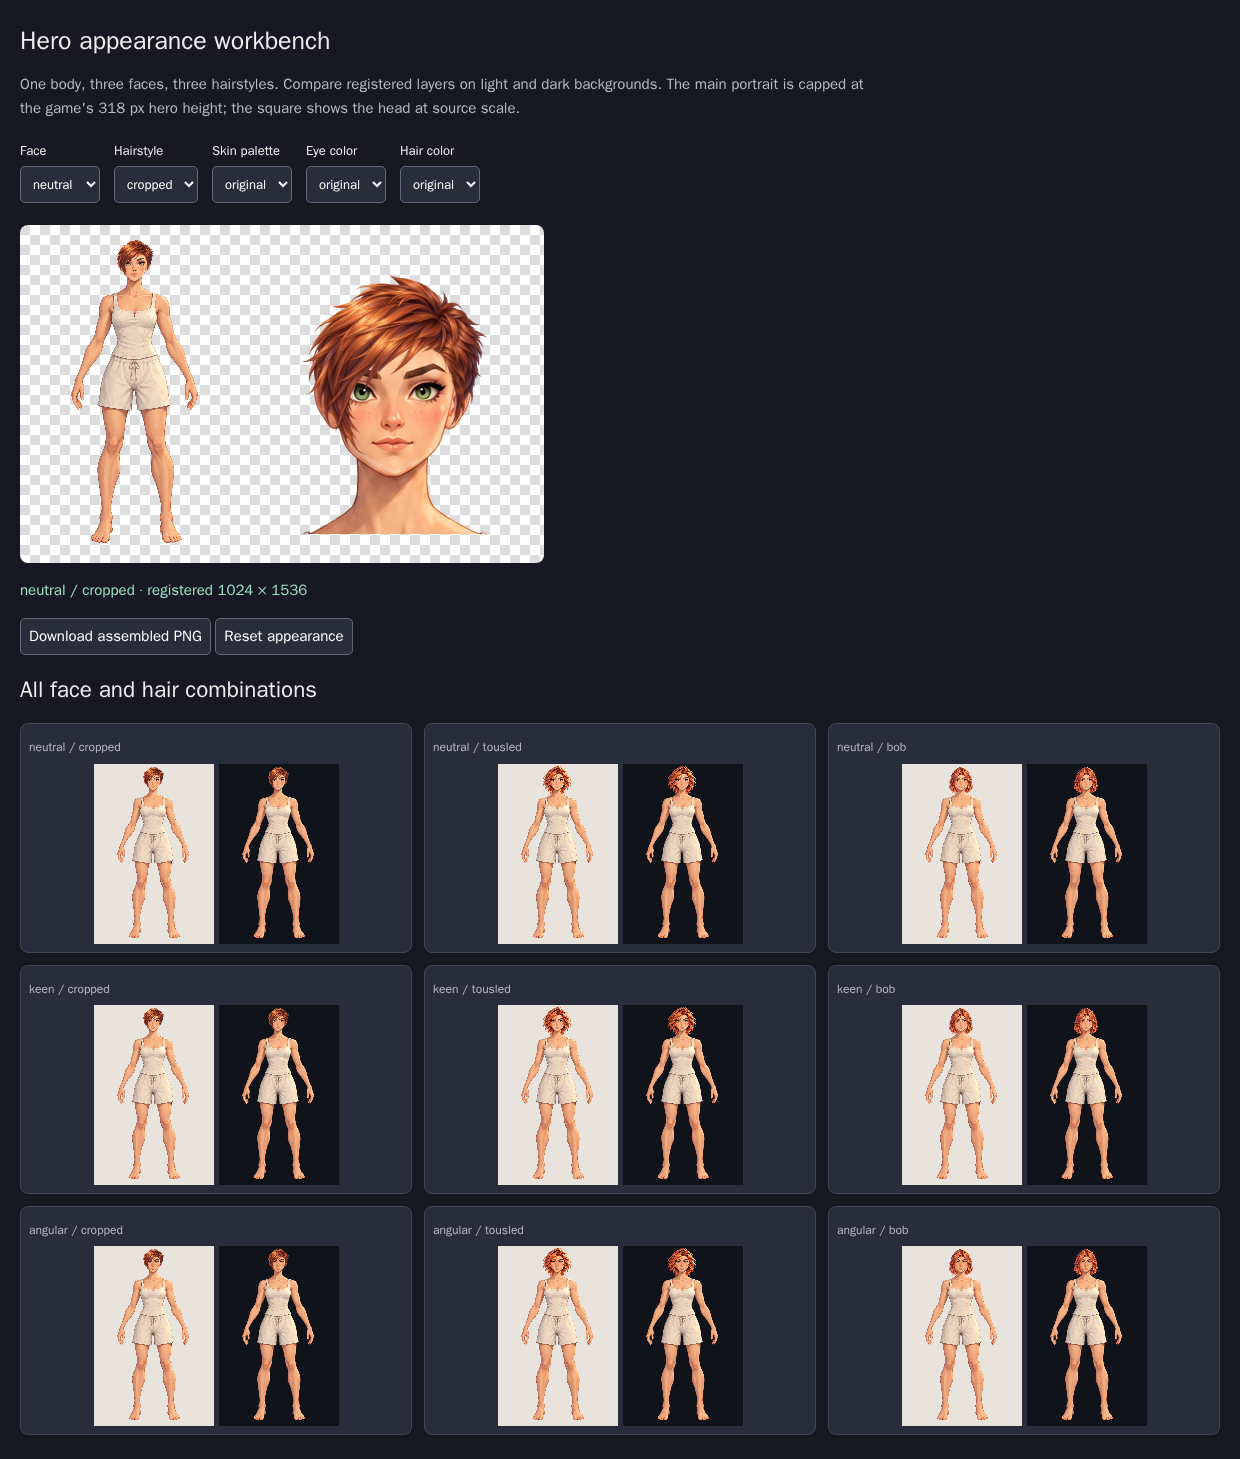
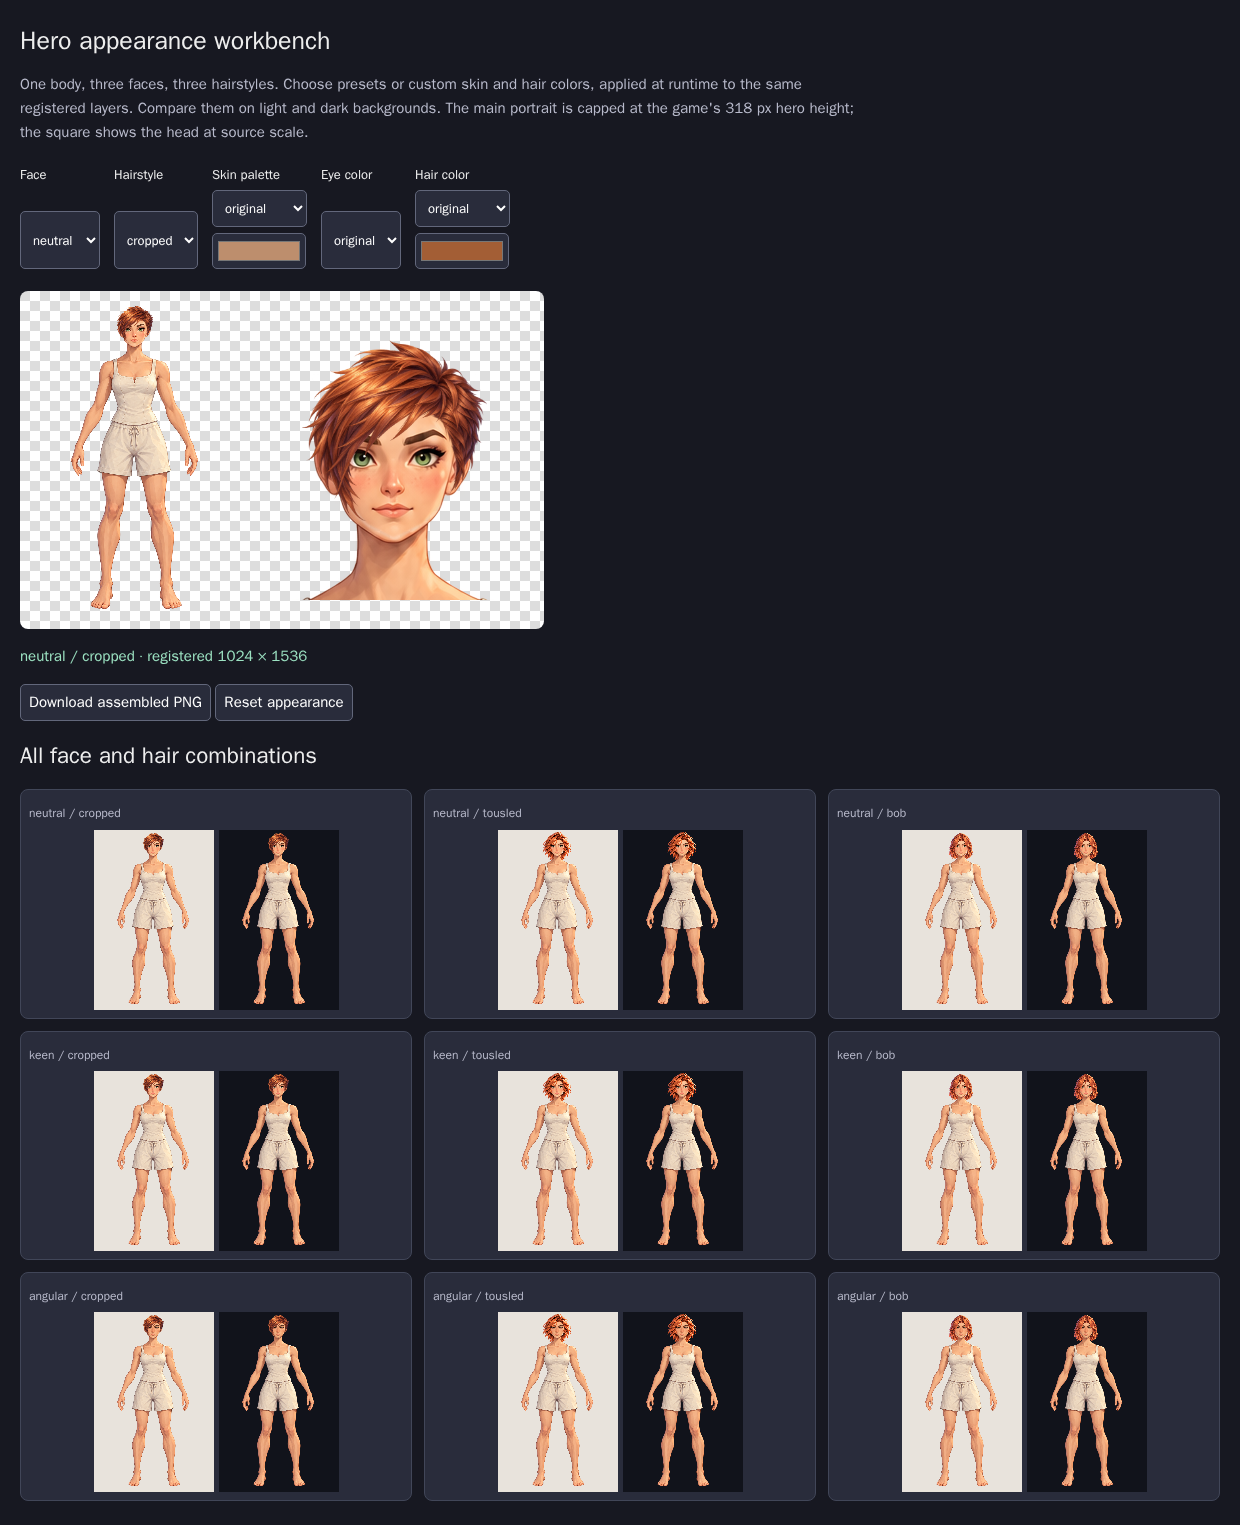
Add custom skin and hair color support to hero kit

Changed region(s): [[0.0, 0.0, 1.0, 0.987], [0.521, 0.9561, 0.5823, 0.987], [0.0919, 0.9561, 0.1532, 0.987]]

diff --git a/tools/hero-kit.html b/tools/hero-kit.html
@@ -6,7 +6,8 @@
 <style>
   :root{color-scheme:dark;font:15px system-ui;background:#171821;color:#eee}
   body{max-width:1280px;margin:24px auto;padding:0 20px}h1{font-size:25px;margin-bottom:8px}p{color:#b8bacb;max-width:850px;line-height:1.6}
-  .controls{display:flex;flex-wrap:wrap;gap:14px;margin:22px 0}label{display:grid;gap:6px;font-size:13px}select,button{padding:8px;border:1px solid #62677b;border-radius:5px;background:#292c3b;color:white;font:inherit}
+  .controls{display:flex;flex-wrap:wrap;gap:14px;margin:22px 0}label{display:grid;gap:6px;font-size:13px}select,button,input{padding:8px;border:1px solid #62677b;border-radius:5px;background:#292c3b;color:white;font:inherit}
+  input[type="color"]{width:94px;height:36px;padding:3px;cursor:pointer}
   #hero{width:212px;height:318px}.stage{background:#eee9e2;border-radius:8px;padding:10px;display:inline-flex;gap:12px;align-items:center}
   .checker{background-color:#ddd;background-image:conic-gradient(#fff 25%,#ddd 0 50%,#fff 0 75%,#ddd 0);background-size:20px 20px}
   #detail{width:280px;height:280px}#swaps{display:grid;grid-template-columns:repeat(3,minmax(0,1fr));gap:12px;margin-top:18px}
@@ -14,7 +15,7 @@
   #status{min-height:25px;color:#9ce2c2}button{cursor:pointer}a{color:#b5c8ff}@media(max-width:700px){#swaps{grid-template-columns:1fr}.stage{display:flex;flex-wrap:wrap}#detail{width:210px;height:210px}}
 </style>
 <h1>Hero appearance workbench</h1>
-<p>One body, three faces, three hairstyles. Compare registered layers on light and dark backgrounds. The main portrait is capped at the game's 318 px hero height; the square shows the head at source scale.</p>
+<p>One body, three faces, three hairstyles. Choose presets or custom skin and hair colors, applied at runtime to the same registered layers. Compare them on light and dark backgrounds. The main portrait is capped at the game's 318 px hero height; the square shows the head at source scale.</p>
 <div class="controls" id="controls"></div>
 <div class="stage checker" id="stage"><canvas id="hero" aria-label="Assembled hero"></canvas><canvas id="detail" aria-label="Head close-up"></canvas></div>
 <p id="status" role="status">Loading appearance kit…</p>
@@ -33,8 +34,18 @@ window.kitReady=(async()=>{
     const label=document.createElement('label');label.textContent={hairColor:'Hair color',skin:'Skin palette',eyes:'Eye color',face:'Face',hair:'Hairstyle'}[key];
     const select=document.createElement('select');select.id=key;select.setAttribute('aria-label',label.textContent);
     const values=key==='face'?manifest.faces:key==='hair'?manifest.hairs:manifest.palettes[key];
-    for(const value of Object.keys(values))select.add(new Option(value,value));select.value=recipe[key];
-    select.onchange=()=>{recipe[key]=select.value;update().catch(fail)};label.append(select);controls.append(label);
+    for(const value of Object.keys(values))select.add(new Option(value,value));
+    if(key==='skin'||key==='hairColor')select.add(new Option('Custom…','custom'));
+    select.value=Object.hasOwn(values,recipe[key])?recipe[key]:'custom';
+    label.append(select);controls.append(label);
+    if(key==='skin'||key==='hairColor'){
+      const picker=document.createElement('input');picker.type='color';picker.id=key+'Custom';picker.setAttribute('aria-label','Custom '+(key==='skin'?'skin color':'hair color'));
+      // Picker swatches approximate the source art when the original palette is selected.
+      picker.value=HeroKit.color(manifest,key,recipe[key])||(key==='skin'?'#bd8e6d':'#a35e35');
+      picker.oninput=()=>{recipe[key]=picker.value;select.value='custom';update().catch(fail)};
+      select.onchange=()=>{recipe[key]=select.value==='custom'?picker.value:select.value;const color=HeroKit.color(manifest,key,recipe[key]);if(color)picker.value=color;update().catch(fail)};
+      label.append(picker);
+    }else select.onchange=()=>{recipe[key]=select.value;update().catch(fail)};
   }
   async function update(){
     const current=++revision,buffer=document.createElement('canvas');await HeroKit.render(buffer,manifest,recipe);if(current!==revision)return;
@@ -42,7 +53,7 @@ window.kitReady=(async()=>{
     detail.width=280;detail.height=280;detail.getContext('2d').drawImage(buffer,365,0,280,280,0,0,280,280);
     localStorage.setItem('hero-kit-preview',JSON.stringify(recipe));document.getElementById('status').textContent=`${recipe.face} / ${recipe.hair} · registered 1024 × 1536`;
   }
-  document.getElementById('reset').onclick=()=>{recipe={...manifest.defaults};for(const key of Object.keys(recipe))document.getElementById(key).value=recipe[key];update().catch(fail)};
+  document.getElementById('reset').onclick=()=>{recipe={...manifest.defaults};for(const key of Object.keys(recipe))document.getElementById(key).value=recipe[key];document.getElementById('skinCustom').value='#bd8e6d';document.getElementById('hairColorCustom').value='#a35e35';update().catch(fail)};
   document.getElementById('download').onclick=()=>{const a=document.createElement('a');a.download=`hero-${recipe.face}-${recipe.hair}.png`;a.href=hero.toDataURL();a.click()};
   await update();
   for(const face of Object.keys(manifest.faces))for(const hair of Object.keys(manifest.hairs)){

diff --git a/tools/hero-kit-check.js b/tools/hero-kit-check.js
@@ -24,6 +24,16 @@ const {artServer}=require('./art-server');
       if(unknown.face!==m.defaults.face||unknown.hair!==m.defaults.hair||unknown.skin!==m.defaults.skin)throw Error('Fallback failed');
       const original=base.toDataURL(),variants=[];
       for(const recipe of [{eyes:'teal'},{skin:'umber'},{hairColor:'silver'}]){const c=make();await HeroKit.render(c,m,recipe);variants.push(c.toDataURL()!==original)}
+      const custom=HeroKit.normalize(m,{skin:'#AbC',hairColor:'#123456',eyes:'#ABCDEF'});
+      if(custom.skin!=='#aabbcc'||custom.hairColor!=='#123456'||custom.eyes!=='#abcdef')throw Error('Custom color normalization failed');
+      for(const value of ['#12','#gggggg','red','__proto__',null,42])if(HeroKit.normalize(m,{skin:value}).skin!==m.defaults.skin)throw Error('Invalid color fallback failed');
+      for(const [key,name]of [['skin','umber'],['hairColor','silver']]){
+        const preset=make(),direct=make();await HeroKit.render(preset,m,{[key]:name});await HeroKit.render(direct,m,{[key]:m.palettes[key][name]});
+        if(preset.toDataURL()!==direct.toDataURL())throw Error('Custom color differs from palette equivalent');
+        const a=base.getContext('2d').getImageData(0,0,1024,1536).data,b=direct.getContext('2d').getImageData(0,0,1024,1536).data;
+        for(let i=3;i<a.length;i+=4)if(a[i]!==b[i])throw Error('Custom tint changed alpha');
+        if(key==='hairColor'&&b.slice(280*1024*4).some((v,i)=>v!==body[i]))throw Error('Hair tint changed body');
+      }
       const files=new Set([m.body,...Object.values(m.clothing),...Object.values(m.masks)]);
       for(const f of Object.values(m.faces))for(const k of ['src','skinMask','eyeMask'])files.add(f[k]);
       for(const h of Object.values(m.hairs))for(const k of ['front','back','mask'])files.add(h[k]);
@@ -33,7 +43,11 @@ const {artServer}=require('./art-server');
     assert.equal(results.distinct,9);assert(results.variants.every(Boolean));
     await page.selectOption('#face','angular');await page.selectOption('#hair','bob');
     await page.waitForFunction(()=>document.getElementById('status').textContent.startsWith('angular / bob'));
+    await page.locator('#skinCustom').fill('#704832');await page.locator('#hairColorCustom').fill('#355577');
+    await page.waitForFunction(()=>{const r=JSON.parse(localStorage.getItem('hero-kit-preview'));return r.skin==='#704832'&&r.hairColor==='#355577'});
     await page.reload();await page.evaluate(()=>window.kitReady);
+    assert.equal(await page.locator('#skinCustom').inputValue(),'#704832');assert.equal(await page.locator('#hairColorCustom').inputValue(),'#355577');
+    assert.equal(await page.locator('#skin').inputValue(),'custom');
     assert.equal(await page.locator('#face').inputValue(),'angular');assert.equal(await page.locator('#hair').inputValue(),'bob');
     await page.click('#reset');await page.waitForFunction(()=>document.getElementById('status').textContent.startsWith('neutral / cropped'));
     const out=path.resolve(__dirname,'../assets/hero/review');fs.mkdirSync(out,{recursive:true});

diff --git a/js/art/hero-kit.js b/js/art/hero-kit.js
@@ -9,10 +9,23 @@
     return images.get(url);
   }
   const canvas = (w,h) => Object.assign(document.createElement('canvas'), {width:w,height:h});
+  // Recipes accept palette names or CSS hex colors; store custom colors canonically.
+  function hexColor(value) {
+    if (typeof value !== 'string' || !/^#(?:[0-9a-f]{3}|[0-9a-f]{6})$/i.test(value)) return null;
+    const hex=value.slice(1).toLowerCase();
+    return '#'+(hex.length===3 ? [...hex].map(c=>c+c).join('') : hex);
+  }
+  function color(manifest, key, value) {
+    return hexColor(value) || (Object.hasOwn(manifest.palettes[key],value) ? manifest.palettes[key][value] : null);
+  }
   function normalize(manifest, recipe = {}) {
     const result = {...manifest.defaults, ...recipe};
     for (const key of ['face','hair']) if (!Object.hasOwn(manifest[key + 's'],result[key])) result[key] = manifest.defaults[key];
-    for (const key of ['skin','eyes','hairColor']) if (!Object.hasOwn(manifest.palettes[key],result[key])) result[key] = manifest.defaults[key];
+    for (const key of ['skin','eyes','hairColor']) {
+      const custom=hexColor(result[key]);
+      if (custom) result[key]=custom;
+      else if (!Object.hasOwn(manifest.palettes[key],result[key])) result[key]=manifest.defaults[key];
+    }
     return result;
   }
   async function tinted(url, maskURL, color, referenceLuma) {
@@ -37,7 +50,7 @@
     target.width=manifest.canvas.width; target.height=manifest.canvas.height;
     const ctx=target.getContext('2d'); ctx.clearRect(0,0,target.width,target.height);
     const draw = async (asset,mask,color,referenceLuma) => ctx.drawImage(await tinted(baseURL+asset,mask ? baseURL+mask : null,color,referenceLuma),0,0);
-    const skin=manifest.palettes.skin[recipe.skin], hairColor=manifest.palettes.hairColor[recipe.hairColor];
+    const skin=color(manifest,'skin',recipe.skin), hairColor=color(manifest,'hairColor',recipe.hairColor);
     if (hair.back && !options.hideHair) await draw(hair.back,hair.backMask,hairColor,manifest.tintReferenceLuma.hairColor);
     await draw(manifest.body,manifest.masks.skin,skin,manifest.tintReferenceLuma.skin);
     if (!options.hideUnderclothes) {
@@ -46,7 +59,7 @@
     }
     const faceLayer=await tinted(baseURL+face.src,baseURL+face.skinMask,skin,manifest.tintReferenceLuma.skin);
     // Eyes are independently masked, after the skin pass.
-    const eyes=manifest.palettes.eyes[recipe.eyes];
+    const eyes=color(manifest,'eyes',recipe.eyes);
     if (eyes) {
       const tempURL=faceLayer.toDataURL();
       ctx.drawImage(await tinted(tempURL,baseURL+face.eyeMask,eyes,manifest.tintReferenceLuma.eyes),0,0);
@@ -55,5 +68,5 @@
     if (!options.hideHair) await draw(hair.front,hair.mask,hairColor,manifest.tintReferenceLuma.hairColor);
     return recipe;
   }
-  window.HeroKit={render,normalize,tinted};
+  window.HeroKit={render,normalize,tinted,color};
 })();

diff --git a/js/art/blade-kit.js b/js/art/blade-kit.js
@@ -31,7 +31,7 @@
       x.save();x.translate(...hand.anchor);x.rotate(hand.rotationDegrees*Math.PI/180);x.scale(hand.scale,hand.scale);x.translate(-m.anchors.gripPivot[0],-m.anchors.gripPivot[1]);x.drawImage(weapon,0,0);x.restore();
     }
     x.drawImage(body,0,0);
-    const recipe=HeroKit.normalize(heroManifest,appearance),skin=heroManifest.palettes.skin[recipe.skin];
+    const recipe=HeroKit.normalize(heroManifest,appearance),skin=HeroKit.color(heroManifest,'skin',recipe.skin);
     for(const side of Object.keys(recipes)){
       const patch=make(body.width,body.height),px=patch.getContext('2d');px.drawImage(await image(baseURL+m.hands[side].patch),0,0);
       if(skin){const color=skin.match(/\w\w/g).map(c=>parseInt(c,16)),d=px.getImageData(0,0,patch.width,patch.height);for(let i=0;i<d.data.length;i+=4){if(!d.data[i+3])continue;const luma=.2126*d.data[i]+.7152*d.data[i+1]+.0722*d.data[i+2];for(let k=0;k<3;k++)d.data[i+k]=Math.min(255,color[k]*luma/heroManifest.tintReferenceLuma.skin)}px.putImageData(d,0,0)}

diff --git a/tools/blade-kit-check.js b/tools/blade-kit-check.js
@@ -29,6 +29,9 @@ const {artServer}=require('./art-server');
     }
    }
    const original=canvas();await HeroKit.render(original,hm);const empty=canvas();await BladeKit.renderHeld(empty,hm,m,{},{});if(hash(empty)!==hash(original))throw Error('Empty loadout changes appearance');
+   const custom=canvas(),named=canvas(),loadout={left:{blade:'standard'},right:{blade:'short'}};
+   await BladeKit.renderHeld(custom,hm,m,{skin:hm.palettes.skin.umber},loadout);await BladeKit.renderHeld(named,hm,m,{skin:'umber'},loadout);
+   if(hash(custom)!==hash(named))throw Error('Custom skin did not reach held hand patches');
    const head=original.getContext('2d').getImageData(0,0,1024,280).data;
    let fits=0;
    for(const recipe of [{blade:'short'},{blade:'standard'},{blade:'broad'},{blade:'standard',material:'wood'},{blade:'standard',material:'crystal'}])for(const side of ['left','right']){

diff --git a/tools/clothing-kit-check.js b/tools/clothing-kit-check.js
@@ -32,6 +32,8 @@ const {artServer}=require('./art-server');
    }
    const warm=await render({},{}),umber=await render({},{skin:'umber'});
    for(const region of [[195,705,48,45],[758,705,48,45]])if(hash(warm,region)!==hash(umber,region))throw Error('Skin tint changes gloves');
+   const bareHands={gloves:'none',left:'standard',right:'short',shield:'none'};
+   if(hash(await render(bareHands,{skin:hm.palettes.skin.umber}))!==hash(await render(bareHands,{skin:'umber'})))throw Error('Custom skin did not reach wardrobe hand patches');
    // Upgrades must retain the same base and change pixels only under new overlays.
    let transitions=0;
    for(const outfit of ['tunic','robe','plate']){

diff --git a/index.html b/index.html
@@ -47,6 +47,8 @@
         <div class="hero-portrait" id="heroPortrait" role="img"></div>
         <div class="gear" id="gear"></div>
       </div>
+      <div class="actions"><a class="btn sm appearance-workbench" href="tools/hero-kit.html" target="_blank" rel="noopener" aria-describedby="appearancePreviewNote" data-t>Appearance workbench</a></div>
+      <p class="foot" id="appearancePreviewNote" data-t>Opens in a new tab. Preview colors and styles without changing your game character.</p>
       <div class="pstats" id="pstats"></div>
       <div class="cfx" id="cfx"></div>
     </section>

diff --git a/js/art/clothing-kit.js b/js/art/clothing-kit.js
@@ -42,7 +42,7 @@
     if(r.outfit!=='none')await assembly(r.outfit);
     if(r.charm!=='none')await draw('charm');
     if(r.helmet!=='none')await draw('helmet');
-    const app=HeroKit.normalize(hm,appearance),skin=hm.palettes.skin[app.skin];
+    const app=HeroKit.normalize(hm,appearance),skin=HeroKit.color(hm,'skin',app.skin);
     for(const side of Object.keys(occupied)){
       if(r.gloves!=='none'){await assembly('glove-'+side);continue}
       const c=make(),cx=c.getContext('2d');cx.drawImage(await image('../assets/weapons/blade-kit/'+bm.hands[side].patch),0,0);

diff --git a/js/lang/ko.js b/js/lang/ko.js
@@ -794,3 +794,6 @@ DICT.ko=Object.assign(DICT.ko||{},{
 });
 
 DICT.ko["3D hero prototype"]="3D 영웅 프로토타입";
+
+// Appearance preview access from equipment.
+Object.assign(DICT.ko, {"Appearance workbench": "외형 작업실", "Opens in a new tab. Preview colors and styles without changing your game character.": "새 탭에서 열립니다. 게임 캐릭터를 변경하지 않고 색상과 스타일을 미리 볼 수 있습니다."});

diff --git a/css/styles.css b/css/styles.css
@@ -57,6 +57,7 @@ h1{font-family:var(--display);font-weight:700;font-size:2.1rem;line-height:1;col
 .btn.sm{padding:6px 10px;font-size:.85rem;min-height:40px}
 .btn:disabled{opacity:.4;cursor:default}
 .actions{display:flex;gap:8px;flex-wrap:wrap}
+.btn.appearance-workbench{color:var(--fg);text-decoration:none;display:inline-flex;align-items:center;min-height:44px}
 .actions .grow{flex:1;min-width:100px}
 
 /* tab bar */

diff --git a/js/lang/de.js b/js/lang/de.js
@@ -797,3 +797,6 @@ DICT.de=Object.assign(DICT.de||{},{
 });
 
 DICT.de["3D hero prototype"]="3D-Heldenprototyp";
+
+// Appearance preview access from equipment.
+Object.assign(DICT.de, {"Appearance workbench": "Aussehen-Werkstatt", "Opens in a new tab. Preview colors and styles without changing your game character.": "Öffnet sich in einem neuen Tab. Sieh dir Farben und Stile an, ohne deine Spielfigur zu verändern."});

diff --git a/assets/hero/README.md b/assets/hero/README.md
@@ -44,7 +44,21 @@ crossing shoulders or equipment needs fitted front/rear masses rather than a
 horizontal cut through the fringe.
 
 `HeroKit.render(canvas, manifest, recipe, assetBaseURL)` renders deterministically;
-unknown recipe values use defaults. Missing image files raise a clear error.
+recipe colors accept palette names or arbitrary `#RGB` / `#RRGGBB` values.
+For example:
+
+```js
+await HeroKit.render(canvas, manifest, {
+  face: 'neutral', hair: 'bob', skin: '#94674d', hairColor: '#283548'
+}, '../assets/hero/kit/');
+```
+
+Colors are applied at runtime to the existing artwork and masks, preserving
+shading and transparency; no per-color PNGs are needed. The workbench includes
+custom skin and hair color pickers and saves their values. `BladeKit.renderHeld`
+and `ClothingKit.render` accept the same appearance recipe and tint exposed grip
+patches to match. `HeroKit.color(manifest, key, value)` resolves a palette name or
+hex value for other fitted layers. Invalid recipe values use defaults. Missing image files raise a clear error.
 Luminance-based tinting preserves shading and alpha within grayscale masks;
 iris masks exclude pupil cores and highlights. Palette reference luminances are
 shared across body and face to avoid a recolored neck seam.
